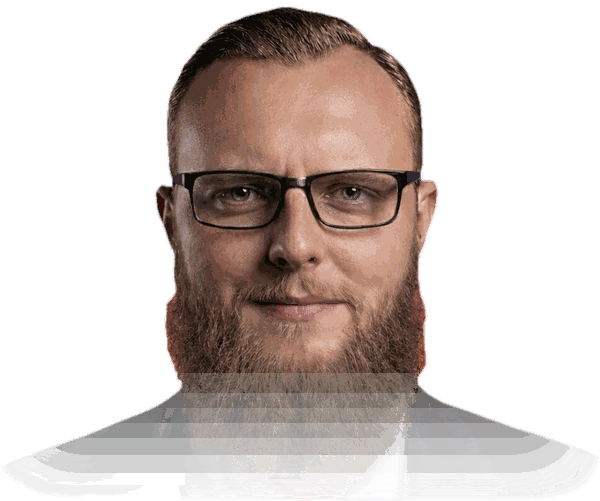
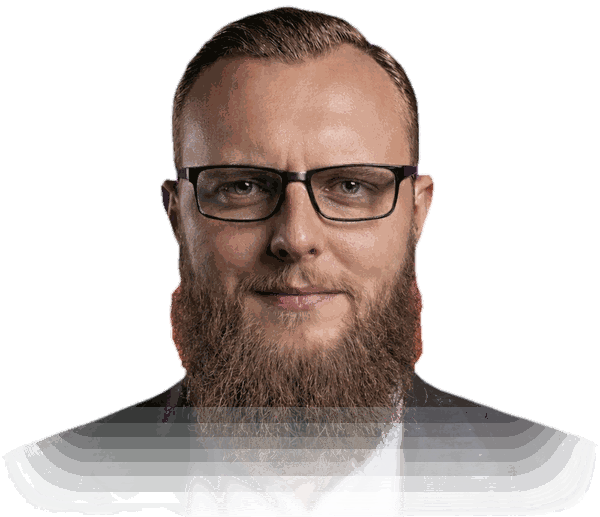
Close the mobile review: dots off the screen edge, portrait sharp to the beard
The dots had ended up 3.5 px from the screen edge, which on a curved display
is the clipping zone; they and the content now sit evenly, 7 px from the edge
and 8 px from the cards, and the English headline gets the same margins as the
Russian one.

The portrait's fade started inside the beard, which only showed on white,
where the beard read as blurred. It now begins below the chin, so the face
stays sharp on either background and only the jacket dissolves.

English text gets the same unbreakable treatment Russian already had, so the
paragraph no longer ends on a lone article.

Claude-Session: https://claude.ai/code/session_01LHeb66oPYoEFF5VE73cuBT

Changed region(s): [[0.03, 0.0, 0.96, 0.9581], [0.36, 0.2096, 0.39, 0.2395], [0.36, 0.1497, 0.39, 0.1796]]

diff --git a/automation/index.html b/automation/index.html
@@ -175,7 +175,7 @@
     transition:background .25s ease,transform .25s ease}
   .dot.on{background:#8854F3;transform:scale(1.35)}
   @media(hover:hover){.dot:hover{background:#F97316}}
-  @media(max-width:520px){.dots{right:.22rem;gap:.55rem}.dot{width:7px;height:7px}}
+  @media(max-width:520px){.dots{right:.45rem;gap:.55rem}.dot{width:7px;height:7px}}
 
   /* ===== Блок 1: о курсе ===== */
   .float-row{display:flex;justify-content:center;align-items:flex-end;gap:.85rem;transform:scale(.82);margin:0 0 .25rem}
@@ -244,7 +244,7 @@
      Иначе самый длинный («чему научитесь», десять пунктов) пришлось бы
      мотать внутри себя, и свайп переставал бы переключать блок. */
   @media (max-width:639px){
-    .panel{padding-top:clamp(4.9rem,11vh,6rem);padding-bottom:2rem;padding-left:1.15rem;padding-right:1.15rem}
+    .panel{padding-top:clamp(4.9rem,11vh,6rem);padding-bottom:2rem;padding-left:1.4rem;padding-right:1.4rem}
     .desc{margin-top:1rem}
     .scroll-hint{margin-top:1.1rem}
     .cta-row{margin-top:1.15rem}
@@ -416,7 +416,7 @@
         <p class="lead" data-i18n="finalLead">Пройдите курс шаг за шагом — от поиска процесса до работающего <span class="nb">ИИ-агента</span> в вашем бизнесе.</p>
         <picture>
           <source srcset="/automation/andre-cta.webp" type="image/webp">
-          <img class="cta-photo" id="cta-photo" src="/automation/andre-cta.png" alt="" width="600" height="501" decoding="async" onerror="this.style.display='none'">
+          <img class="cta-photo" id="cta-photo" src="/automation/andre-cta.png" alt="" width="600" height="517" decoding="async" onerror="this.style.display='none'">
         </picture>
         <div class="cta-row">
           <a class="btn-white btn-start" id="final-cta" href="https://andre.technology/automation/main">
@@ -487,7 +487,7 @@
         l9: 'Measure the effect of automation',
         l10: 'Deploy your first AI agent in a business',
         finalH: 'Ready to <span class="plum">start</span>?',
-        finalLead: 'Take the course step by step — from finding a process to a working AI agent in your business.',
+        finalLead: 'Take the course step by step — from finding a process to a working <span class="nb">AI agent</span> in your business.',
         start: 'Start learning',
         title: 'Andre AI — Business Process Automation Course with AI Agents'
       }
